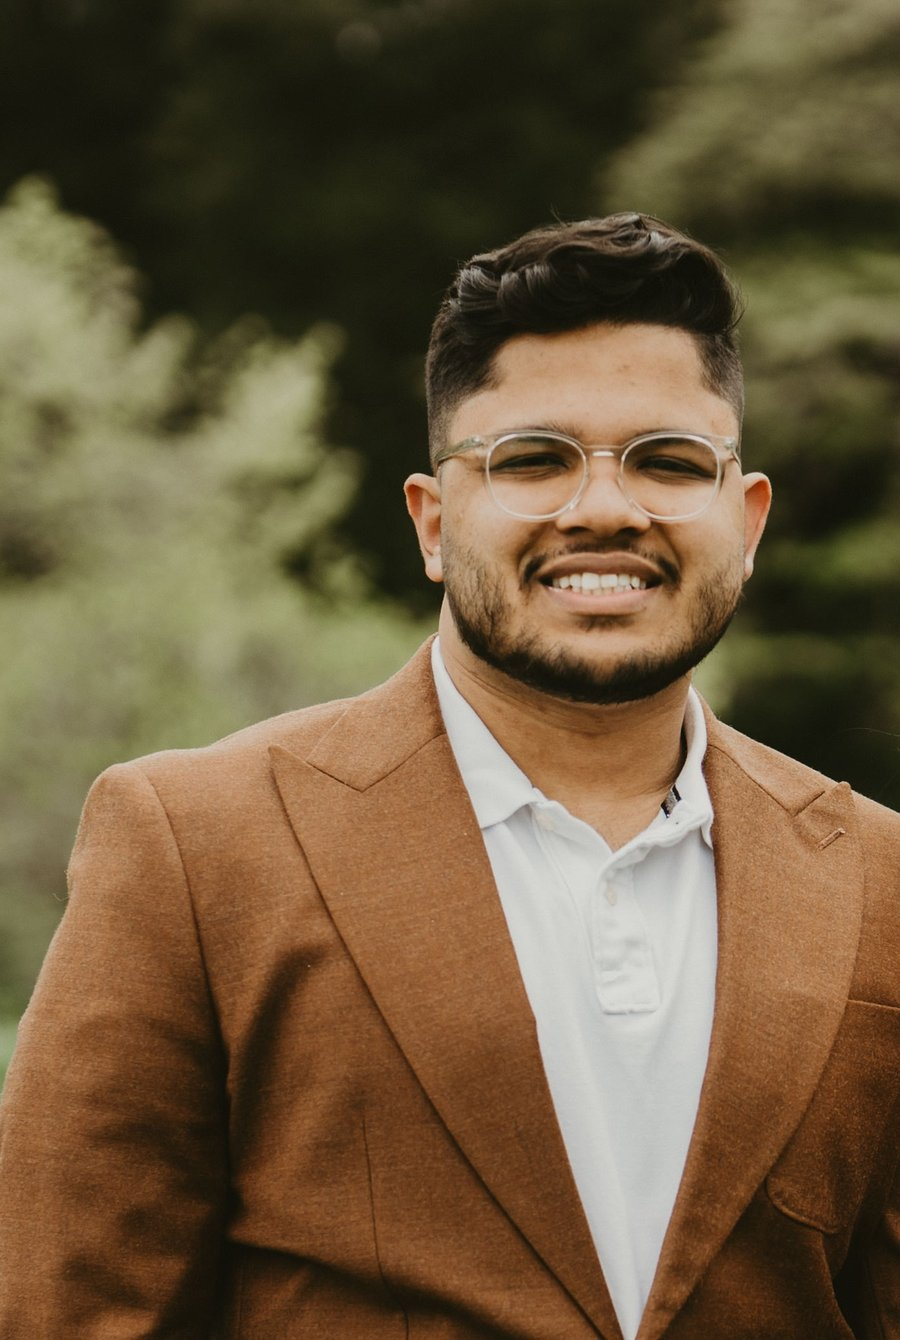
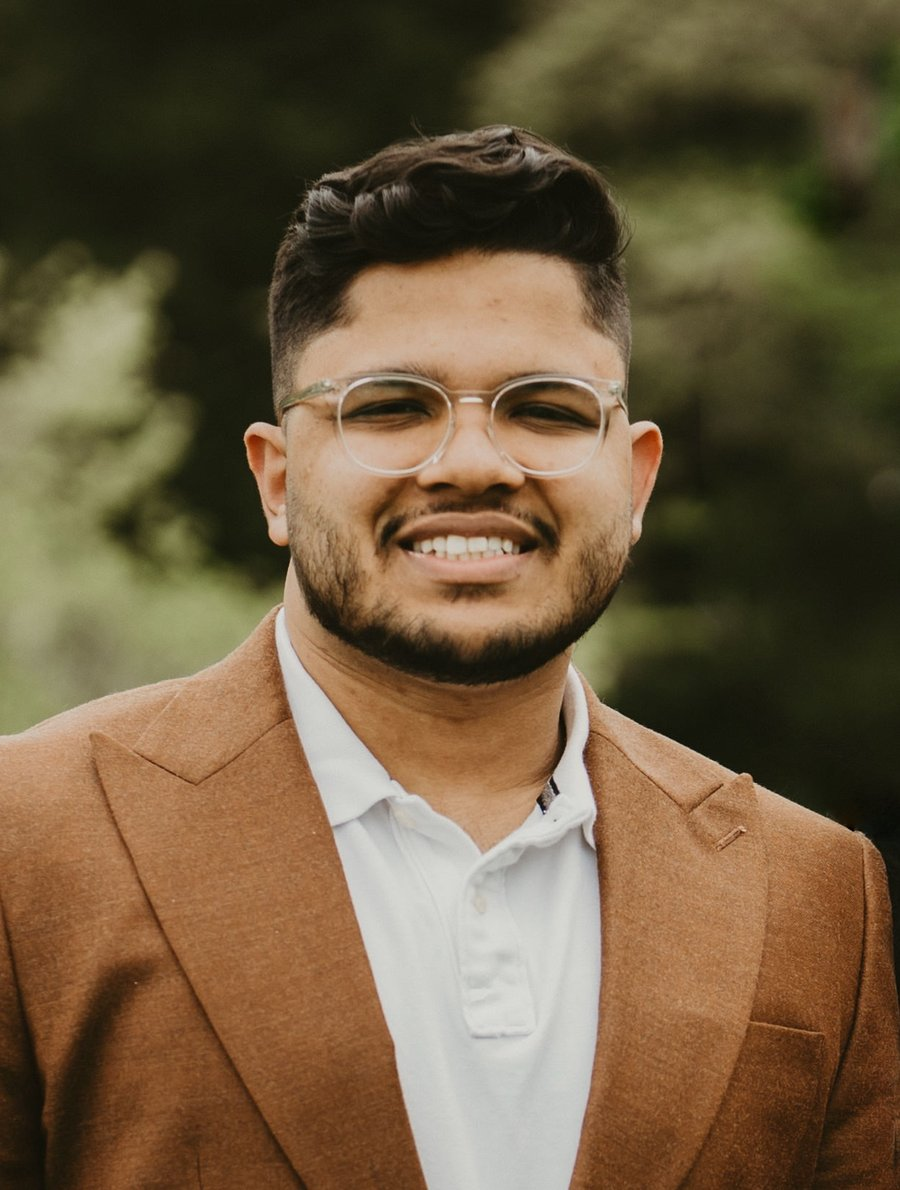
Recenter hero portrait crop

diff --git a/index.html b/index.html
@@ -57,7 +57,7 @@
           </div>
         </div>
         <div class="hero-photo">
-          <img src="assets/tom-portrait.jpg" alt="Tom Thomas smiling outdoors" width="900" height="1340" />
+          <img src="assets/tom-portrait.jpg" alt="Tom Thomas smiling outdoors" width="900" height="1190" />
         </div>
       </div>
     </section>
